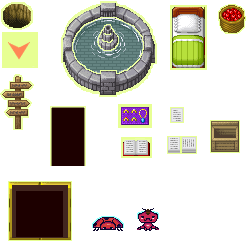
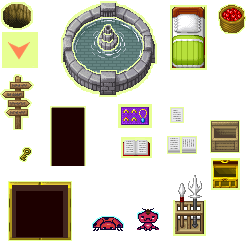
Finished house 2

Changed region(s): [[0.6693, 0.7261, 0.8367, 0.9876], [0.8367, 0.639, 0.9761, 0.8133], [0.0558, 0.61, 0.1394, 0.668]]

diff --git a/World/Sprite_locations.py b/World/Sprite_locations.py
@@ -60,12 +60,37 @@ interactable = {
     'CH': (
         210, 120, 
         (30, 33),
-        'inside: Old wedding ring... and rotten apple'
+        'Inside: Old wedding ring... and rotten apple'
     ),
     'A': (
         217, 3, 
         (30, 32),
         ['Barrel of Apples', 'Fresh Apples']
+    ),
+    'LA': (
+        170, 107, 
+        (20, 20),
+        "Message: Dear Mr. Ant you need more investors, or your company dies."
+    ),
+    'LSA': (
+        167, 135, 
+        (30, 20),
+        'Urgent letters of company bankruptcy'
+    ),
+    'GT': (
+        172, 172, 
+        (35, 64),
+        'Gardening tools: Shovel and Axe '
+    ),
+    'GC': (
+        211, 158, 
+        (29, 32),
+        'Inside: Empty...'
+    ),
+    'DK': (
+        18, 146, 
+        (15, 17),
+        'Door Key ...'
     ),
     'Ant': (
         134, 208, 
